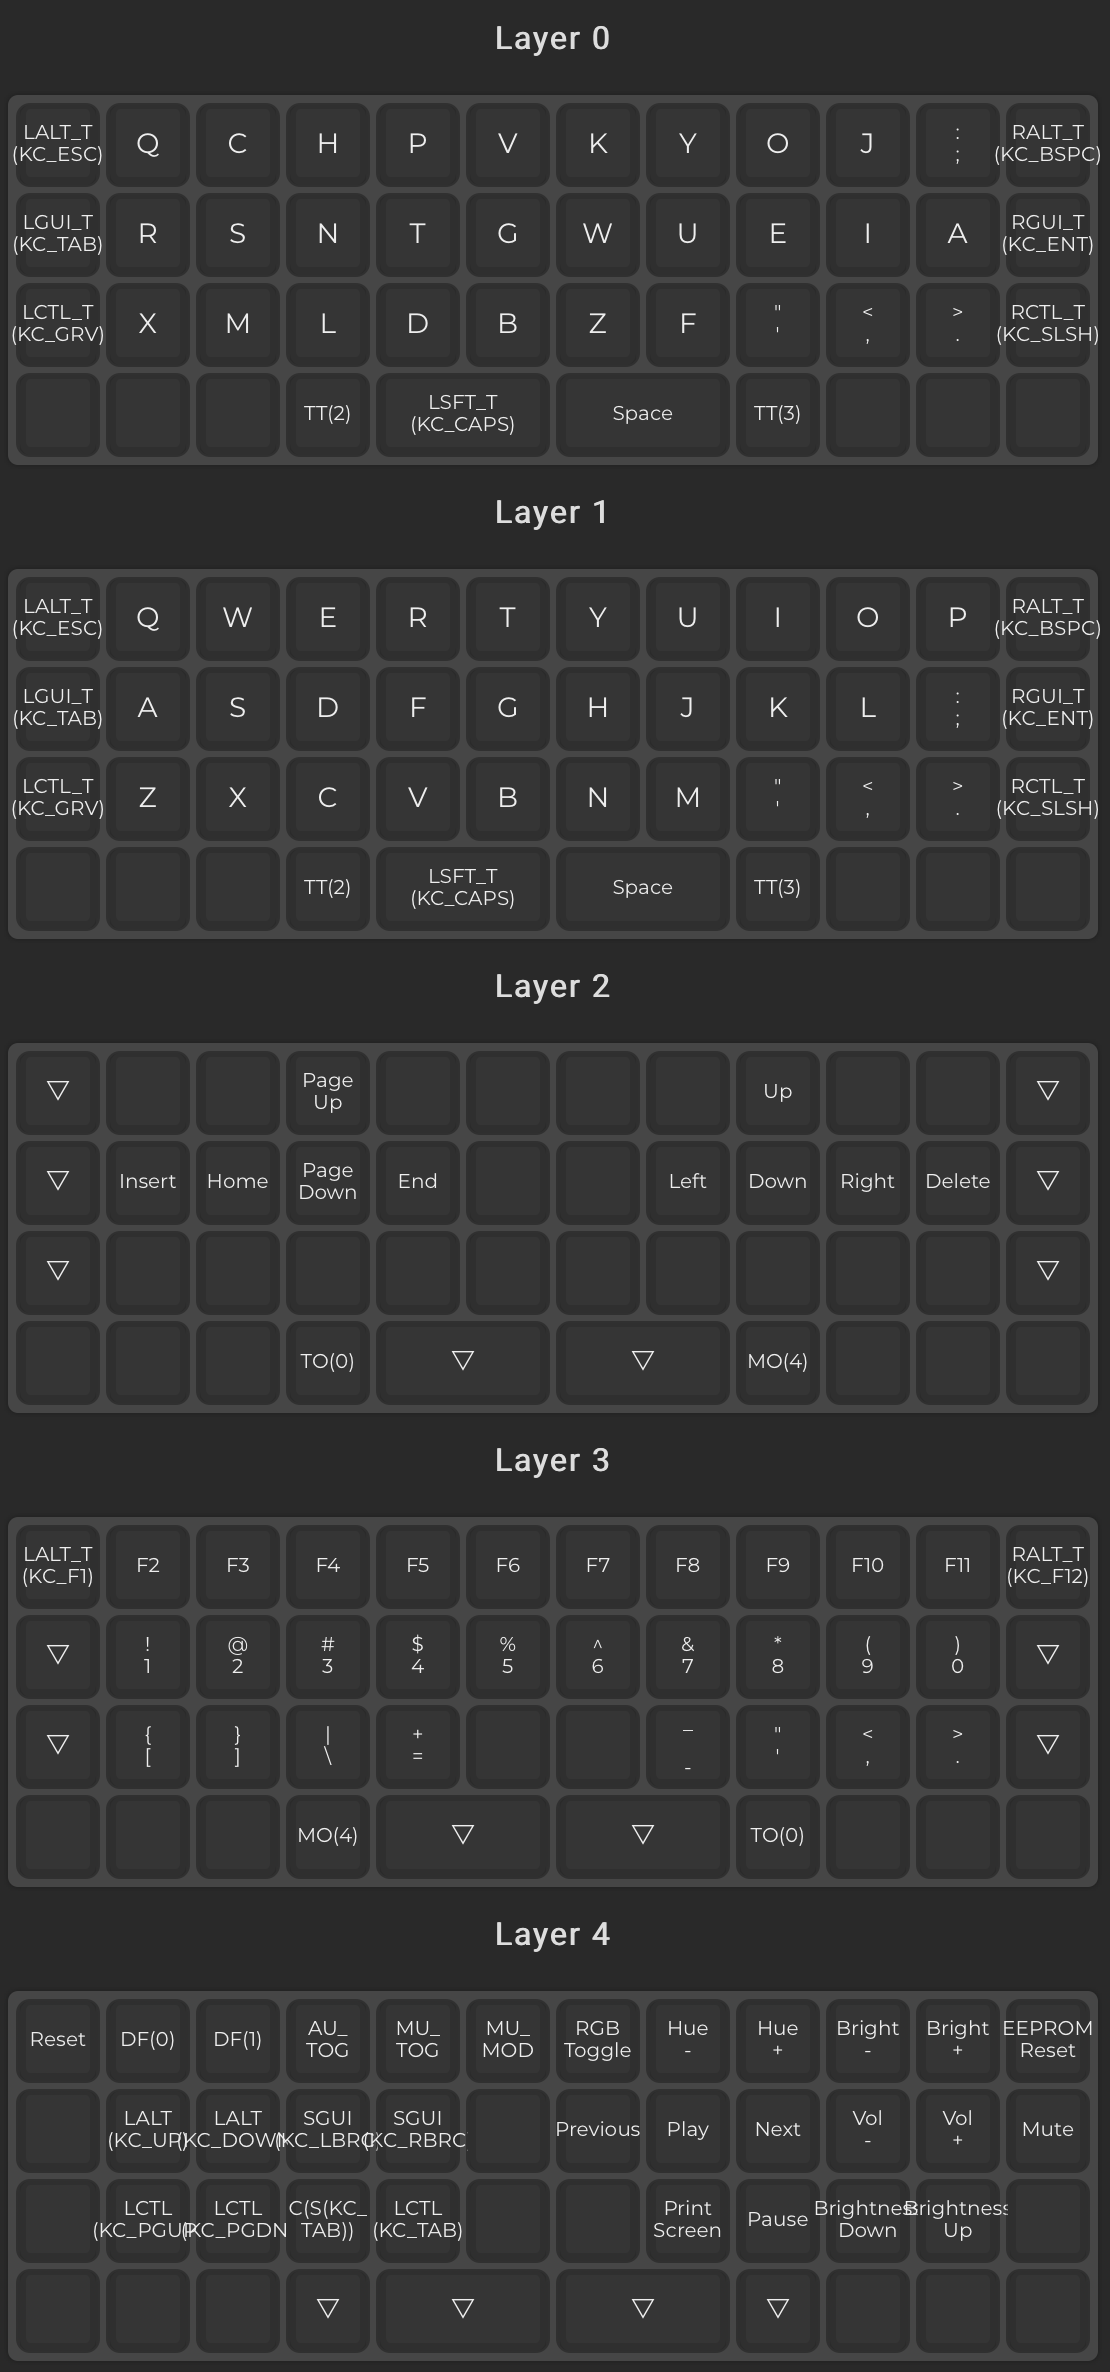
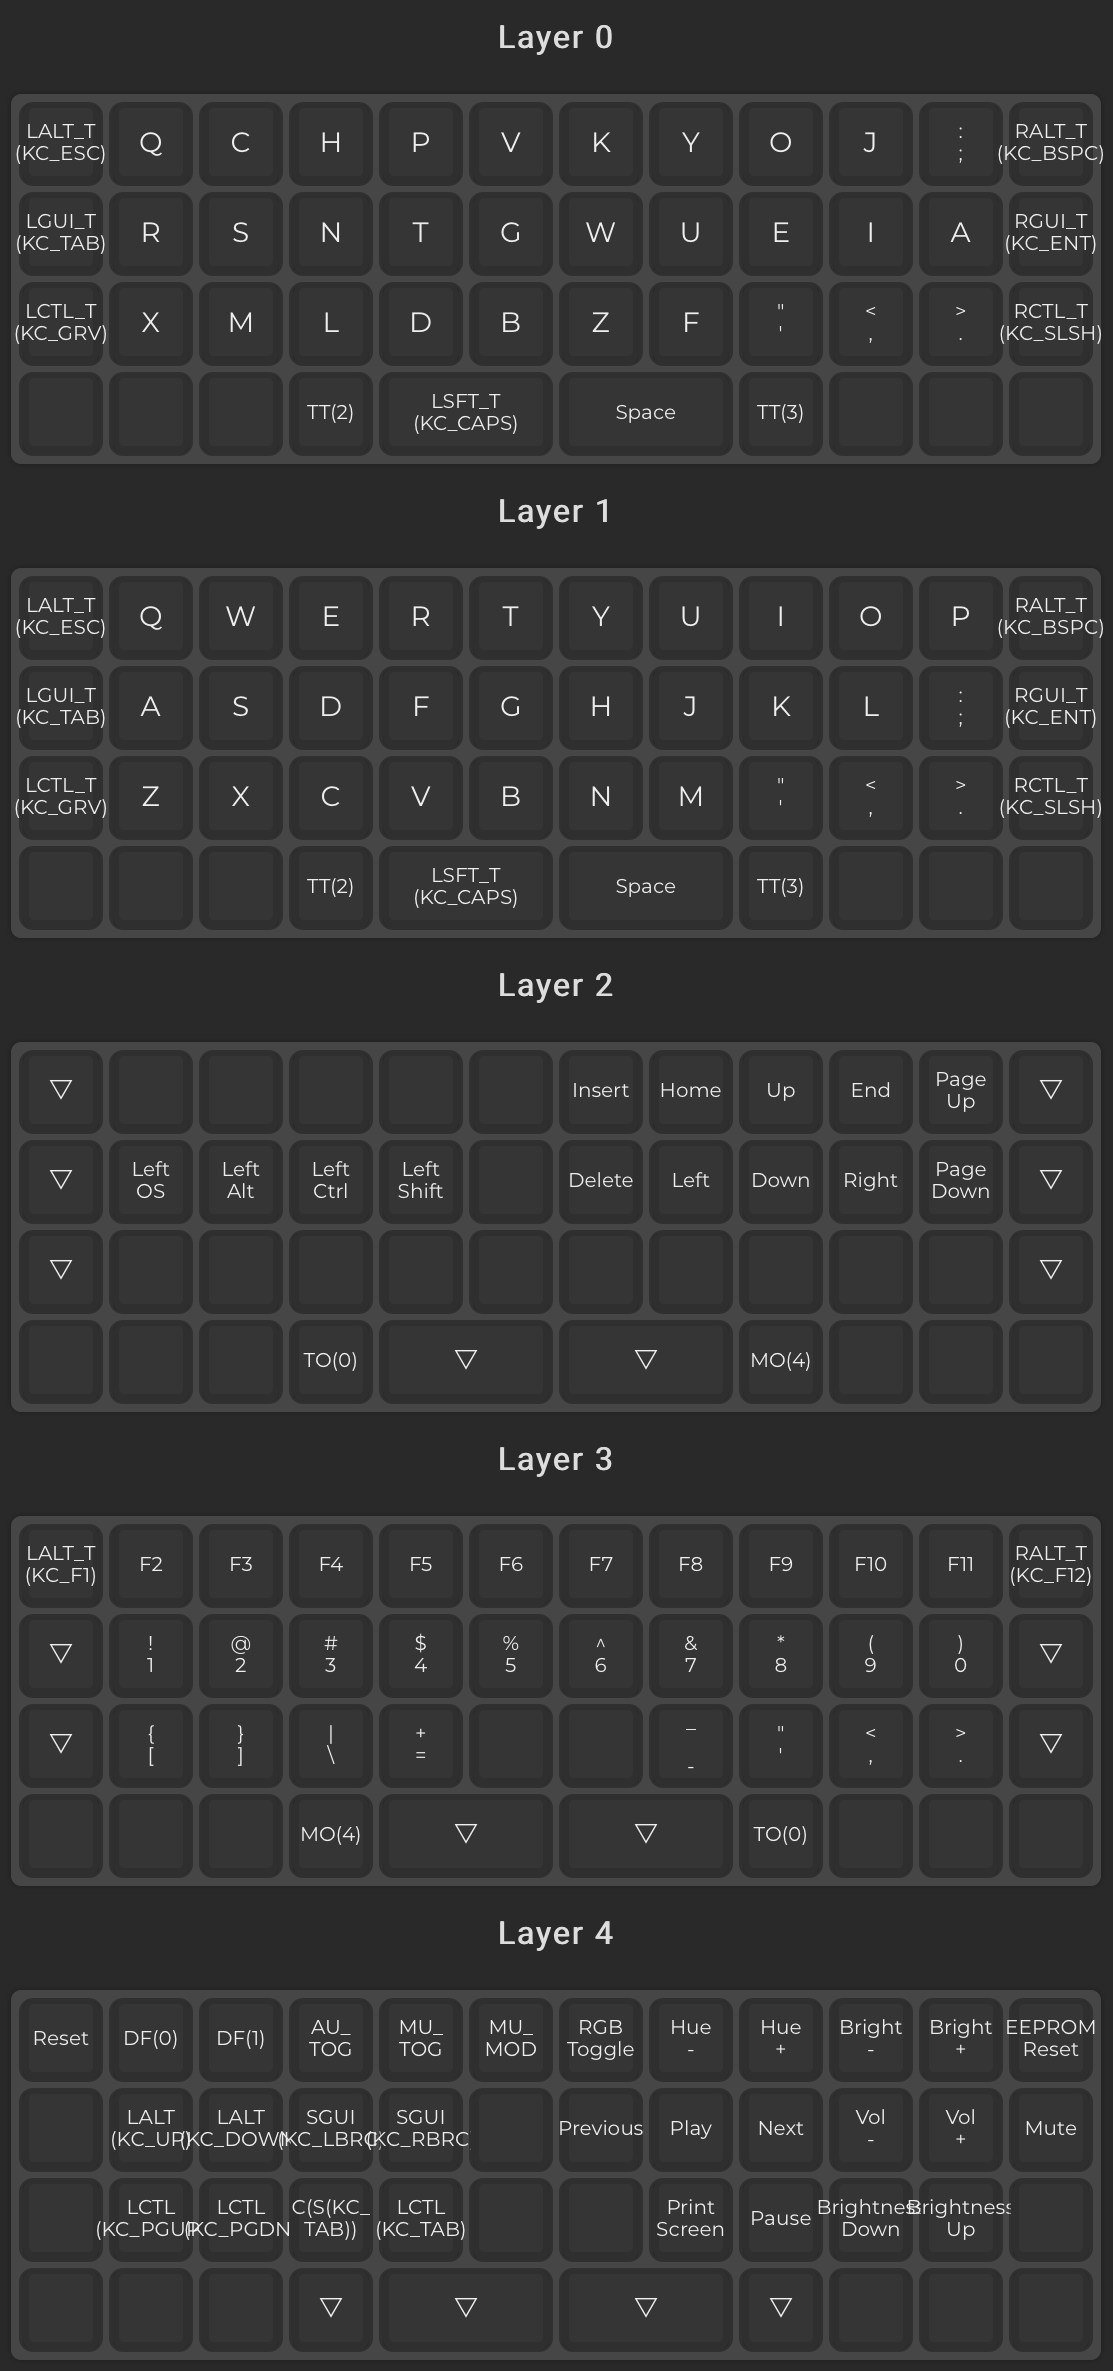
Reorganize nav layer with layermods

diff --git a/keymap.c b/keymap.c
@@ -9,7 +9,7 @@
 const uint16_t PROGMEM keymaps[][MATRIX_ROWS][MATRIX_COLS] = {
 	[0] = LAYOUT_planck_2x2u(LALT_T(KC_ESC), KC_Q, KC_C, KC_H, KC_P, KC_V, KC_K, KC_Y, KC_O, KC_J, KC_SCLN, RALT_T(KC_BSPC), LGUI_T(KC_TAB), KC_R, KC_S, KC_N, KC_T, KC_G, KC_W, KC_U, KC_E, KC_I, KC_A, RGUI_T(KC_ENT), LCTL_T(KC_GRV), KC_X, KC_M, KC_L, KC_D, KC_B, KC_Z, KC_F, KC_QUOT, KC_COMM, KC_DOT, RCTL_T(KC_SLSH), KC_NO, KC_NO, KC_NO, TT(2), LSFT_T(KC_CAPS), KC_SPC, TT(3), KC_NO, KC_NO, KC_NO),
 	[1] = LAYOUT_planck_2x2u(LALT_T(KC_ESC), KC_Q, KC_W, KC_E, KC_R, KC_T, KC_Y, KC_U, KC_I, KC_O, KC_P, RALT_T(KC_BSPC), LGUI_T(KC_TAB), KC_A, KC_S, KC_D, KC_F, KC_G, KC_H, KC_J, KC_K, KC_L, KC_SCLN, RGUI_T(KC_ENT), LCTL_T(KC_GRV), KC_Z, KC_X, KC_C, KC_V, KC_B, KC_N, KC_M, KC_QUOT, KC_COMM, KC_DOT, RCTL_T(KC_SLSH), KC_NO, KC_NO, KC_NO, TT(2), LSFT_T(KC_CAPS), KC_SPC, TT(3), KC_NO, KC_NO, KC_NO),
-	[2] = LAYOUT_planck_2x2u(KC_TRNS, KC_NO, KC_NO, KC_PGUP, KC_NO, KC_NO, KC_NO, KC_NO, KC_UP, KC_NO, KC_NO, KC_TRNS, KC_TRNS, KC_INS, KC_HOME, KC_PGDN, KC_END, KC_NO, KC_NO, KC_LEFT, KC_DOWN, KC_RGHT, KC_DEL, KC_TRNS, KC_TRNS, KC_NO, KC_NO, KC_NO, KC_NO, KC_NO, KC_NO, KC_NO, KC_NO, KC_NO, KC_NO, KC_TRNS, KC_NO, KC_NO, KC_NO, TO(0), KC_TRNS, KC_TRNS, MO(4), KC_NO, KC_NO, KC_NO),
+	[2] = LAYOUT_planck_2x2u(KC_TRNS, KC_NO, KC_NO, KC_NO, KC_NO, KC_NO, KC_INS, KC_HOME, KC_UP, KC_END, KC_PGUP, KC_TRNS, KC_TRNS, KC_LGUI, KC_LALT, KC_LCTL, KC_LSFT, KC_NO, KC_DEL, KC_LEFT, KC_DOWN, KC_RGHT, KC_PGDN, KC_TRNS, KC_TRNS, KC_NO, KC_NO, KC_NO, KC_NO, KC_NO, KC_NO, KC_NO, KC_NO, KC_NO, KC_NO, KC_TRNS, KC_NO, KC_NO, KC_NO, TO(0), KC_TRNS, KC_TRNS, MO(4), KC_NO, KC_NO, KC_NO),
 	[3] = LAYOUT_planck_2x2u(LALT_T(KC_F1), KC_F2, KC_F3, KC_F4, KC_F5, KC_F6, KC_F7, KC_F8, KC_F9, KC_F10, KC_F11, RALT_T(KC_F12), KC_TRNS, KC_1, KC_2, KC_3, KC_4, KC_5, KC_6, KC_7, KC_8, KC_9, KC_0, KC_TRNS, KC_TRNS, KC_LBRC, KC_RBRC, KC_BSLS, KC_EQL, KC_NO, KC_NO, KC_MINS, KC_QUOT, KC_COMM, KC_DOT, KC_TRNS, KC_NO, KC_NO, KC_NO, MO(4), KC_TRNS, KC_TRNS, TO(0), KC_NO, KC_NO, KC_NO),
 	[4] = LAYOUT_planck_2x2u(RESET, DF(0), DF(1), AU_TOG, MU_TOG, MU_MOD, RGB_TOG, RGB_HUD, RGB_HUI, RGB_VAD, RGB_VAI, EEP_RST, KC_NO, LALT(KC_UP), LALT(KC_DOWN), SGUI(KC_LBRC), SGUI(KC_RBRC), KC_NO, KC_MPRV, KC_MPLY, KC_MNXT, KC_VOLD, KC_VOLU, KC_MUTE, KC_NO, LCTL(KC_PGUP), LCTL(KC_PGDN), C(S(KC_TAB)), LCTL(KC_TAB), KC_NO, KC_NO, KC_PSCR, KC_PAUS, KC_BRID, KC_BRIU, KC_NO, KC_NO, KC_NO, KC_NO, KC_TRNS, KC_TRNS, KC_TRNS, KC_TRNS, KC_NO, KC_NO, KC_NO)
 };
